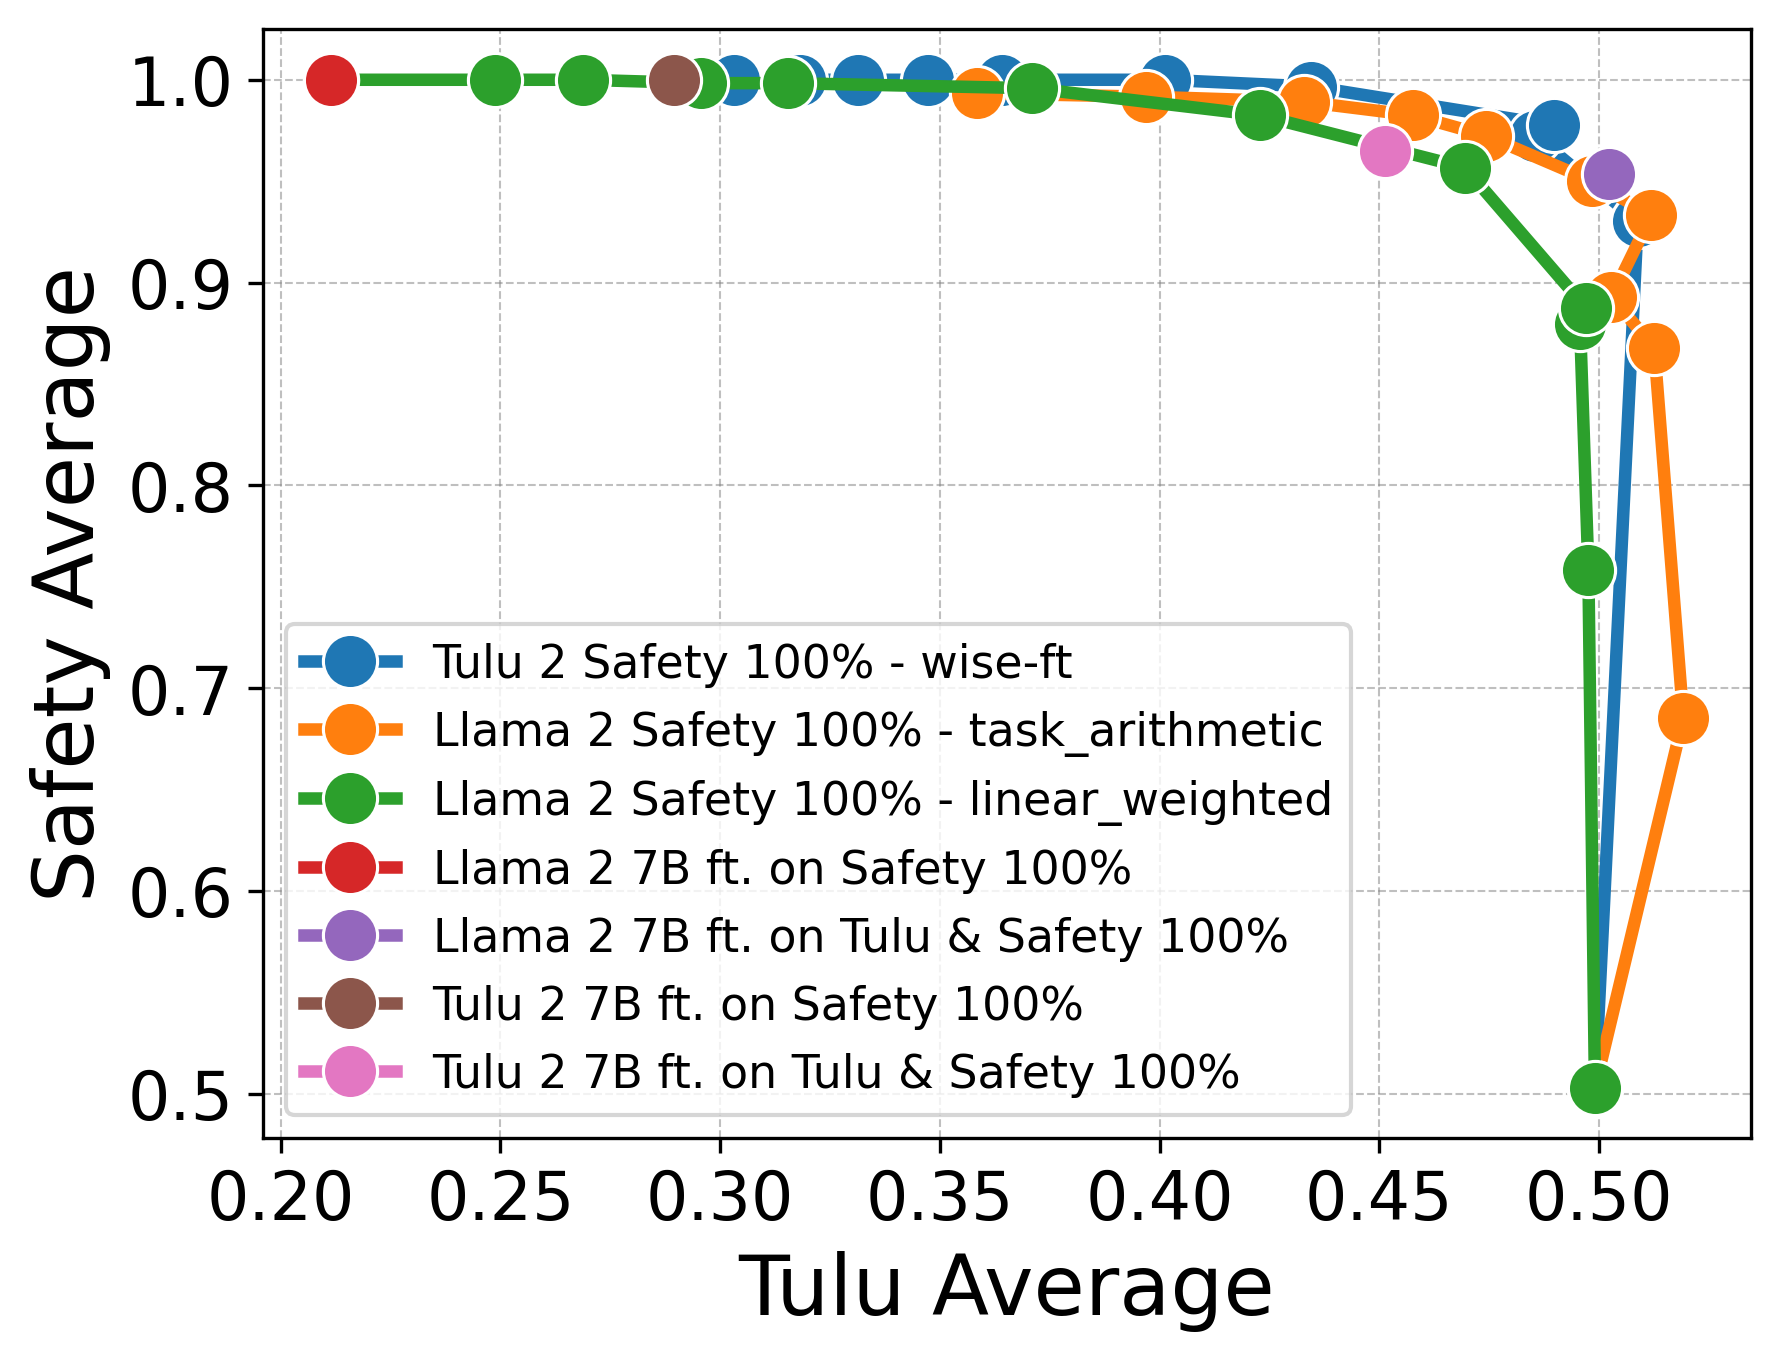
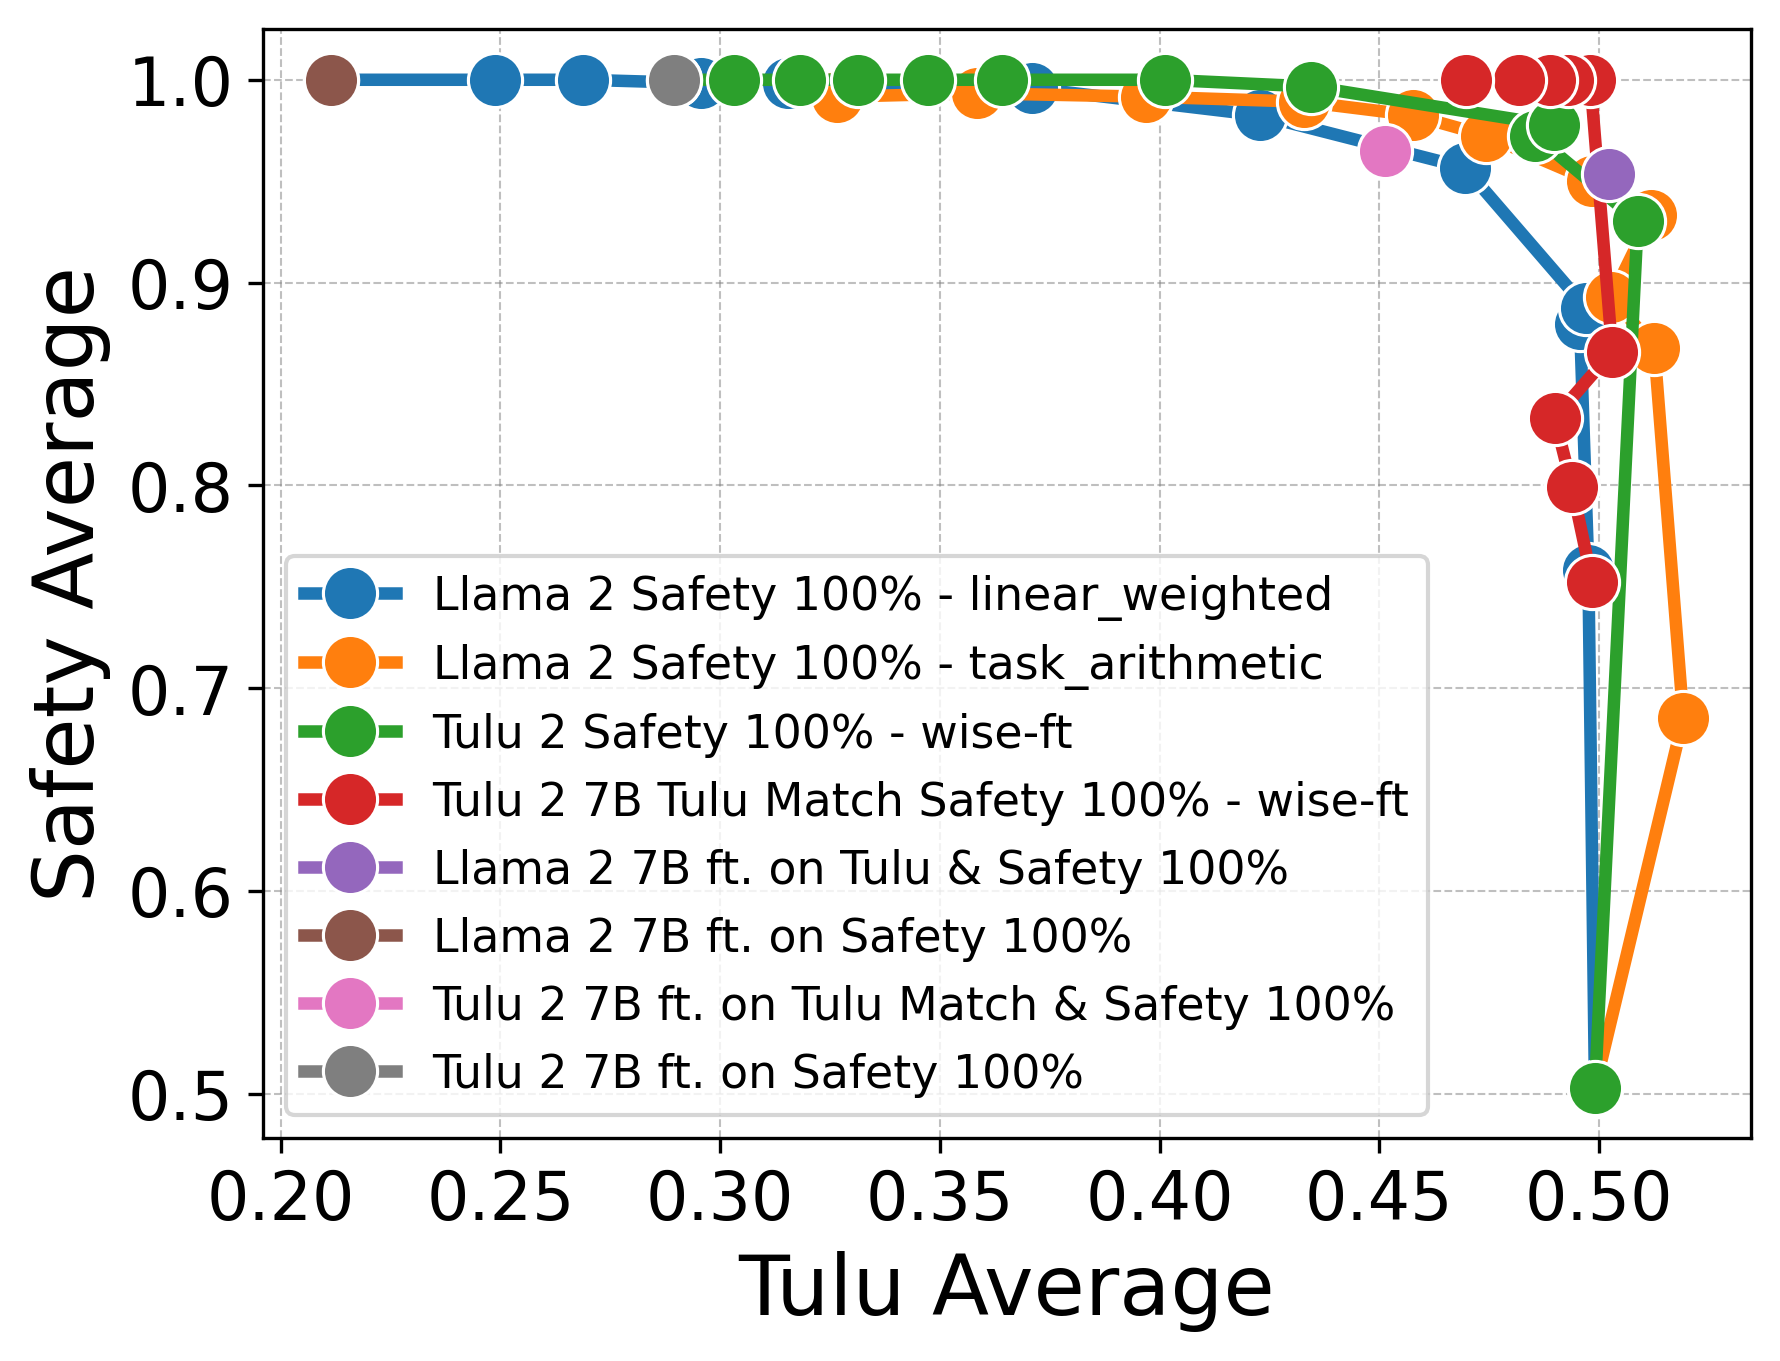
.

diff --git a/scripts/make-combo-mixtures.py b/scripts/make-combo-mixtures.py
@@ -5,6 +5,7 @@ tulu_all_no_science_no_safety_no_coding = []
 with open("/net/nfs.cirrascale/allennlp/jacobm/modular_adaptation/train_data/consistent_mix/tulu_all_no_science_no_safety_no_coding.jsonl") as f_in:
     for line in f_in.readlines():
         tulu_all_no_science_no_safety_no_coding.append(json.loads(line)) 
+random.shuffle(tulu_all_no_science_no_safety_no_coding)
 
 science_examples = []
 with open("/net/nfs.cirrascale/allennlp/jacobm/modular_adaptation/train_data/science/tulu_none_science_2500_eval_no.jsonl") as f_in:
@@ -23,12 +24,12 @@ with open("/net/nfs.cirrascale/allennlp/jacobm/modular_adaptation/train_data/cod
 
 three_domains = science_examples + safety_examples + code_examples
 random.shuffle(three_domains)
-with open("/net/nfs.cirrascale/allennlp/jacobm/modular_adaptation/train_data/consistent_mix/tulu_none-science_2500-safety_100-coding_100.jsonl", "w") as f_out:
-    for elem in three_domains:
-        print(json.dumps(elem), file=f_out)
+# with open("/net/nfs.cirrascale/allennlp/jacobm/modular_adaptation/train_data/consistent_mix/tulu_none-science_2500-safety_100-coding_100.jsonl", "w") as f_out:
+#     for elem in three_domains:
+#         print(json.dumps(elem), file=f_out)
 
-tulu_and_three_domains = tulu_all_no_science_no_safety_no_coding + three_domains
+tulu_and_three_domains = tulu_all_no_science_no_safety_no_coding[:len(three_domains)] + three_domains
 random.shuffle(tulu_and_three_domains)
-with open("/net/nfs.cirrascale/allennlp/jacobm/modular_adaptation/train_data/consistent_mix/tulu_all_no_science_no_safety_no_coding-science_2500-safety_100-coding_100.jsonl", "w") as f_out:
+with open("/net/nfs.cirrascale/allennlp/jacobm/modular_adaptation/train_data/consistent_mix/tulu_match_no_science_no_safety_no_coding-science_2500-safety_100-coding_100.jsonl", "w") as f_out:
     for elem in tulu_and_three_domains:
         print(json.dumps(elem), file=f_out)

diff --git a/results/consistent_mix/graph-results.py b/results/consistent_mix/graph-results.py
@@ -255,10 +255,10 @@ def plot_all_curves():
 
 def plot_individual_science_curves():
     science_amounts = [
-        # "100",
-        # "200",
-        # "500",
-        # "1000",
+        "100",
+        "200",
+        "500",
+        "1000",
         "2500",
     ]
     for amount in science_amounts:
@@ -307,8 +307,8 @@ def plot_individual_coding_curves():
         df.sort_values(by='Combo', inplace=True)
         df.sort_values(by='Order', inplace=True)
         df = df[
-            ~df["Combo"].str.contains("Science 2500") &
-            ~df["Combo"].str.contains("Safety 100") &
+            ~df["Combo"].str.contains("cience") &
+            ~df["Combo"].str.contains("afety") &
             ~df["Combo"].str.contains("w/ Coding") &
             ~df["tulu_model"].str.contains("coding") &
             df["Combo"].str.contains(f"Coding {amount}")
@@ -377,7 +377,7 @@ def plot_individual_safety_curves():
             # "coding_100"
         # })]
         df = df[
-            ~df["Combo"].str.contains("Science 2500") &
+            ~df["Combo"].str.contains("cience") &
             ~df["Combo"].str.contains("Coding 100") &
             df["Combo"].str.contains(f"Safety {amount}")
         ]
@@ -450,8 +450,8 @@ def plot_individual_safety_vs_exaggerated_refusals():
         plt.clf()
 
 
-plot_individual_science_curves()
-# plot_individual_coding_curves()
+# plot_individual_science_curves()
+plot_individual_coding_curves()
 # plot_individual_safety_curves()
 # plot_individual_coding_curves_tulu_with_coding()
 # plot_individual_safety_vs_exaggerated_refusals()
